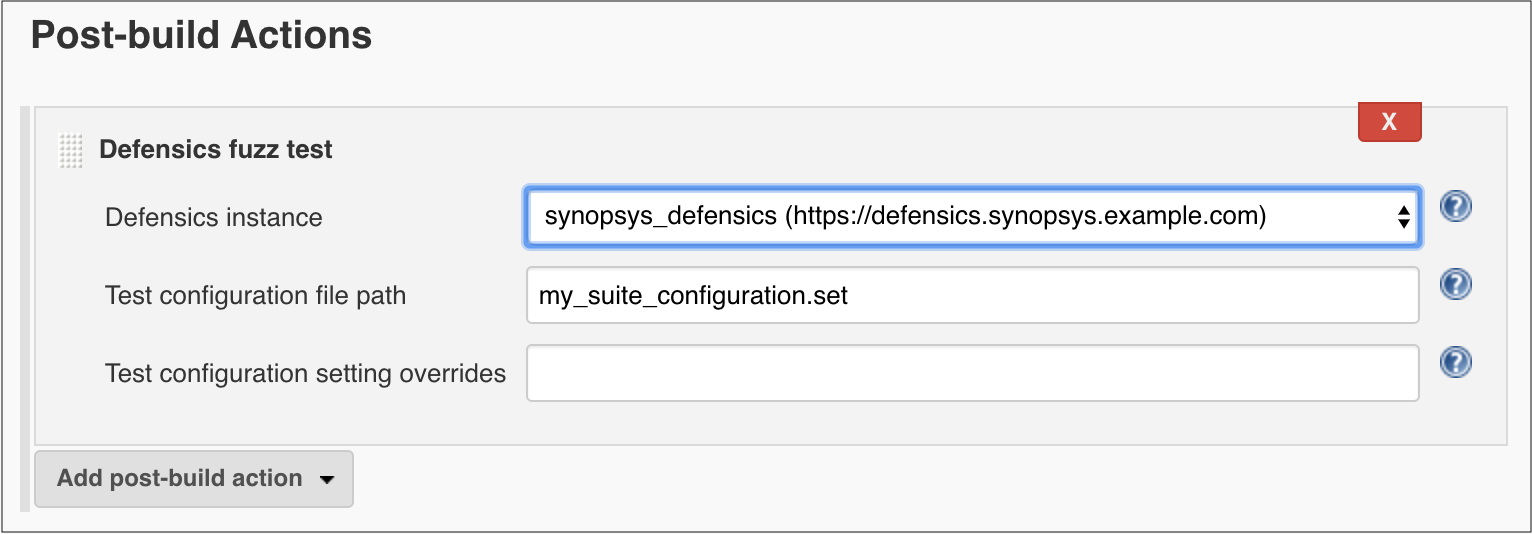
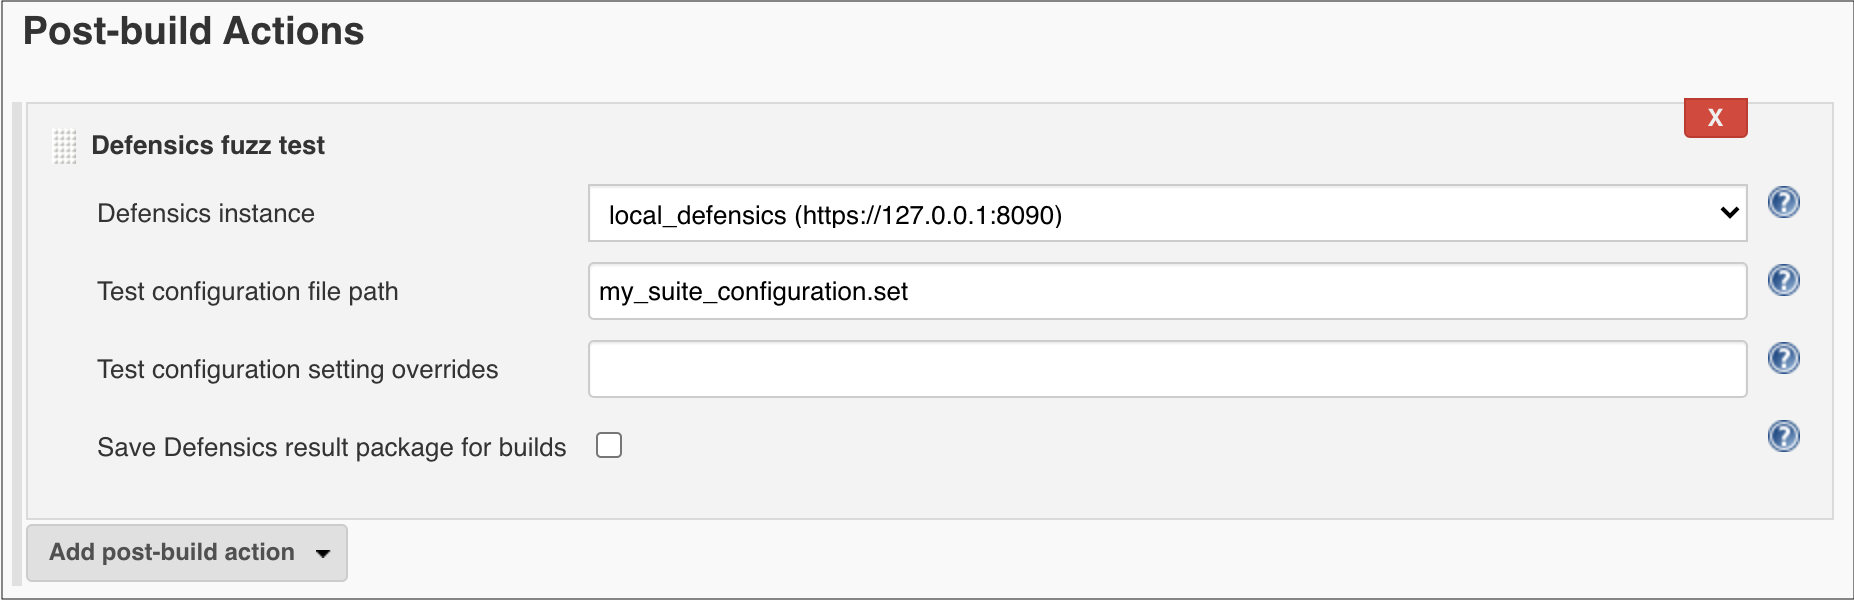
Update user guide
Update user guide to match latest functionality

diff --git a/doc/user-guide.md b/doc/user-guide.md
@@ -2,9 +2,7 @@
 
 ## Overview
 
-The Synopsys Defensics Jenkins plugin enables you to integrate Defensics fuzz testing into your 
-Jenkins builds. It allows you to connect to multiple Defensics instances and run pre-configured 
-fuzz tests on them.
+The Synopsys Defensics Jenkins plugin enables you to integrate Defensics fuzz testing into your Jenkins builds. It allows you to connect to multiple Defensics instances and run pre-configured fuzz tests on them.
 
 More information on Defensics and fuzz testing is available at 
 https://www.synopsys.com/software-integrity/security-testing/fuzz-testing.html.
@@ -80,7 +78,8 @@ You can integrate Defensics fuzz tests into your builds as a build or post-build
     * [How do I get my .set file into my job's workspace?](#faq-4)
 5. If you want to override any settings from the test configuration file, you can do so in the **Test configuration setting overrides** text box.
     * [How should I override test configuration file settings?](#faq-5)
-6. Select **Save**.
+6. If you want Defensics result package zip files to be saved with each build, check the **Save Defensics result package for builds** checkbox. The files are quite big and storing many of them will take up disk space, so this is disabled by default. A result package can be imported into Defensics UI to re-run the tests.
+7. Select **Save**.
 
 ### Configuring Defensics test steps for pipeline projects
 The minimum syntax for running fuzz tests in a pipeline script is:
@@ -89,7 +88,7 @@ The minimum syntax for running fuzz tests in a pipeline script is:
 
 The full syntax is:
 
-`defensics configurationFilePath: 'my_suite_configuration.set', defensicsInstance: 'synopsys_defensics', configurationOverrides: '--uri https://example.com'`
+`defensics configurationFilePath: 'my_suite_configuration.set', configurationOverrides: '--uri https://example.com', defensicsInstance: 'synopsys_defensics', saveResultPackage: true`
 
 The parameters are explained in [Configuring Defensics test steps for freestyle projects](#freestyle-config).
 
@@ -102,6 +101,8 @@ The parameters are explained in [Configuring Defensics test steps for freestyle 
 ### Build results
 
 The build status page contains links to the fuzzing report in both the sidebar menu and the main content area. The number of failures is also visible in the main content area. If you don't see links to the report, it means a fuzzing step was not completed for that build. If there are multiple fuzzing steps, reports for all of them are found behind the same link. The reports are separated into tabs.
+
+There will also be a link to the result package for each Defensics step in the build that has **Save Defensics result package for builds** enabled.
 ![Build status page](img/build-results.png)
 
 ### Project results
